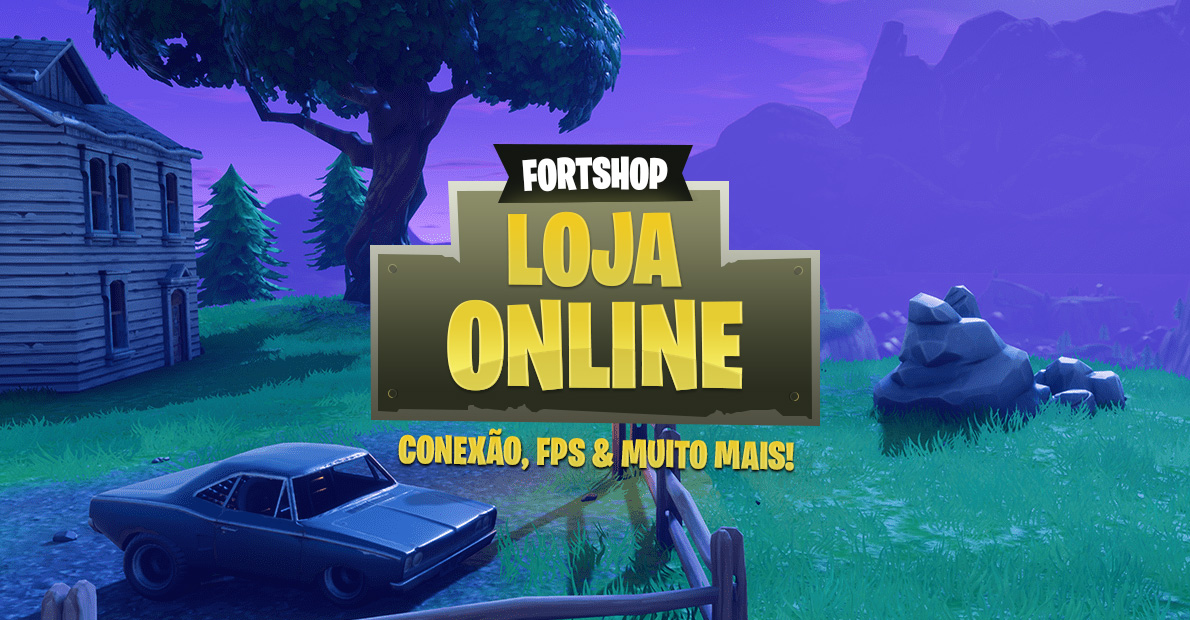
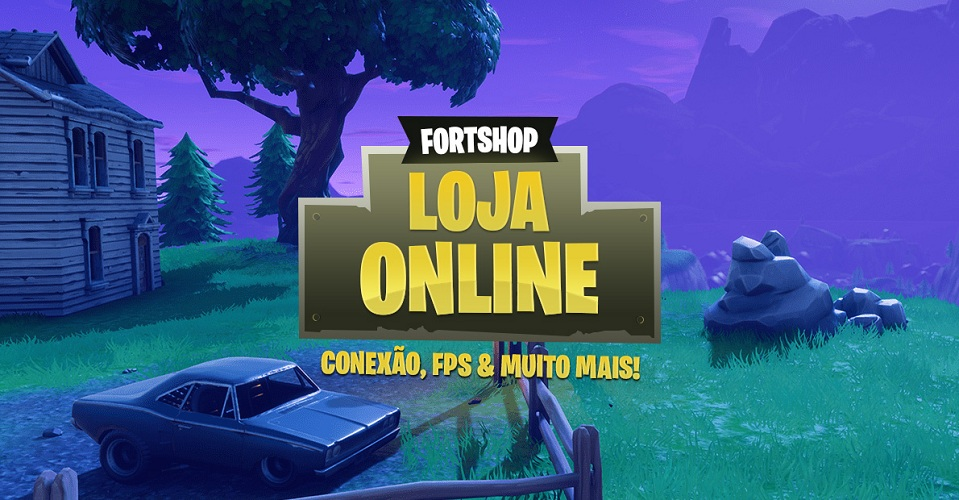
update share

diff --git a/demo/fortshop/index.html b/demo/fortshop/index.html
@@ -15,22 +15,22 @@
     –––––––––––––––––––––––––––––––––––––––––––––––––– -->
     <meta charset="utf-8">
     <title>Fortshop - Compre na loja de Fortnite mais segura e confiável do Brasil!</title>
-    <meta name="description" content="Minecraft Full Acesso por R$ 25,00, o melhor preço do mercado! Somos a melhor loja de Minecraft do Brasil, temos o melhor produto pelo melhor preço. Comprar Minecraft barato. Por que comprar conosco ? Segurança na compra. Sua compra é segura feita por Pagseguro ou Paypal, e oferecemos total garantia">
+    <meta name="description" content="FPS-Booster e Regedit para seu Fortnite, com o melhor preço do mercado! Somos a melhor loja de Fortnite do Brasil, temos o melhor produto pelo melhor preço. Comprar Fortnite barato. Por que comprar conosco ? Segurança na compra. Sua compra é segura feita por Pagseguro, Paypal ou MercadoPago, e oferecemos total garantia">
     <meta name="author" content="JimmyFilips">
-    <meta name="keywords" content="Fortshop, minecraft, comprar, original, barato, confiável, brasil"/>
+    <meta name="keywords" content="Fortshop, comprar, original, barato, confiável, brasil"/>
     
 	<meta name="twitter:title" content="fortshop.com.br" />
-	<meta name="twitter:description" content="A Melhor & Mais segura loja de fortnite do Brasil!" />
+	<meta name="twitter:description" content="A Melhor & Mais segura loja de Fortnite do Brasil!" />
     <meta name="twitter:card" content="summary" />
     <meta name="twitter:site" content="@cavaleiro" /> 
-    <meta name="twitter:image" content="https://jimmyfilips.github.io/demo/fortshop/img/share.jpg" />
+    <meta name="twitter:image" content="https://i.imgur.com/YQ4wJRk.jpg" />
     
     <meta property="og:locale" content="pt_BR">
     <meta property="og:url" content="https://jimmyfilips.github.io/demo/fortshop/">
-    <meta property="og:title" content="Compre Minecraft Original com Qualidade e Segurança!">
+    <meta property="og:title" content="Compre na Maior & Mais segura loja de Fortnite do Brasil!">
     <meta property="og:site_name" content="Fortshop">
     <meta property="og:description" content="A Melhor & Mais segura loja de minecraft do Brasil! Contas Full Acesso a R$25,00!!">
-    <meta property="og:image" content="https://jimmyfilips.github.io/demo/fortshop/img/share.jpg">
+    <meta property="og:image" content="https://i.imgur.com/YQ4wJRk.jpg">
     <meta property="og:image:type" content="image/jpeg">
     <meta property="og:image:width" content="1200">
     <meta property="og:image:height" content="630">
